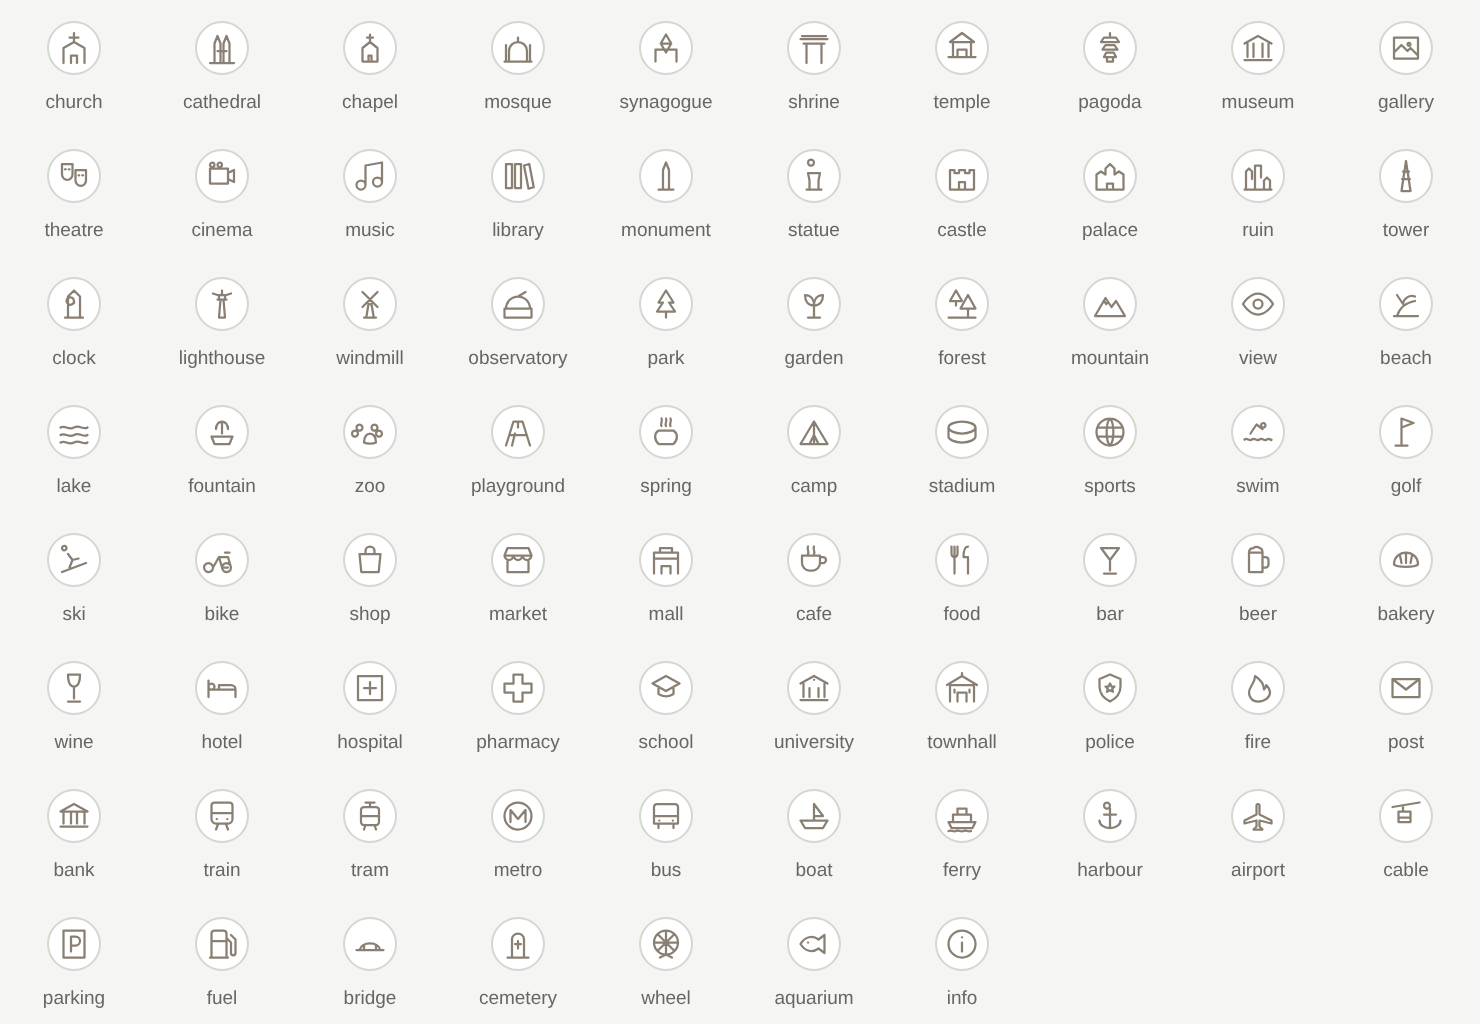
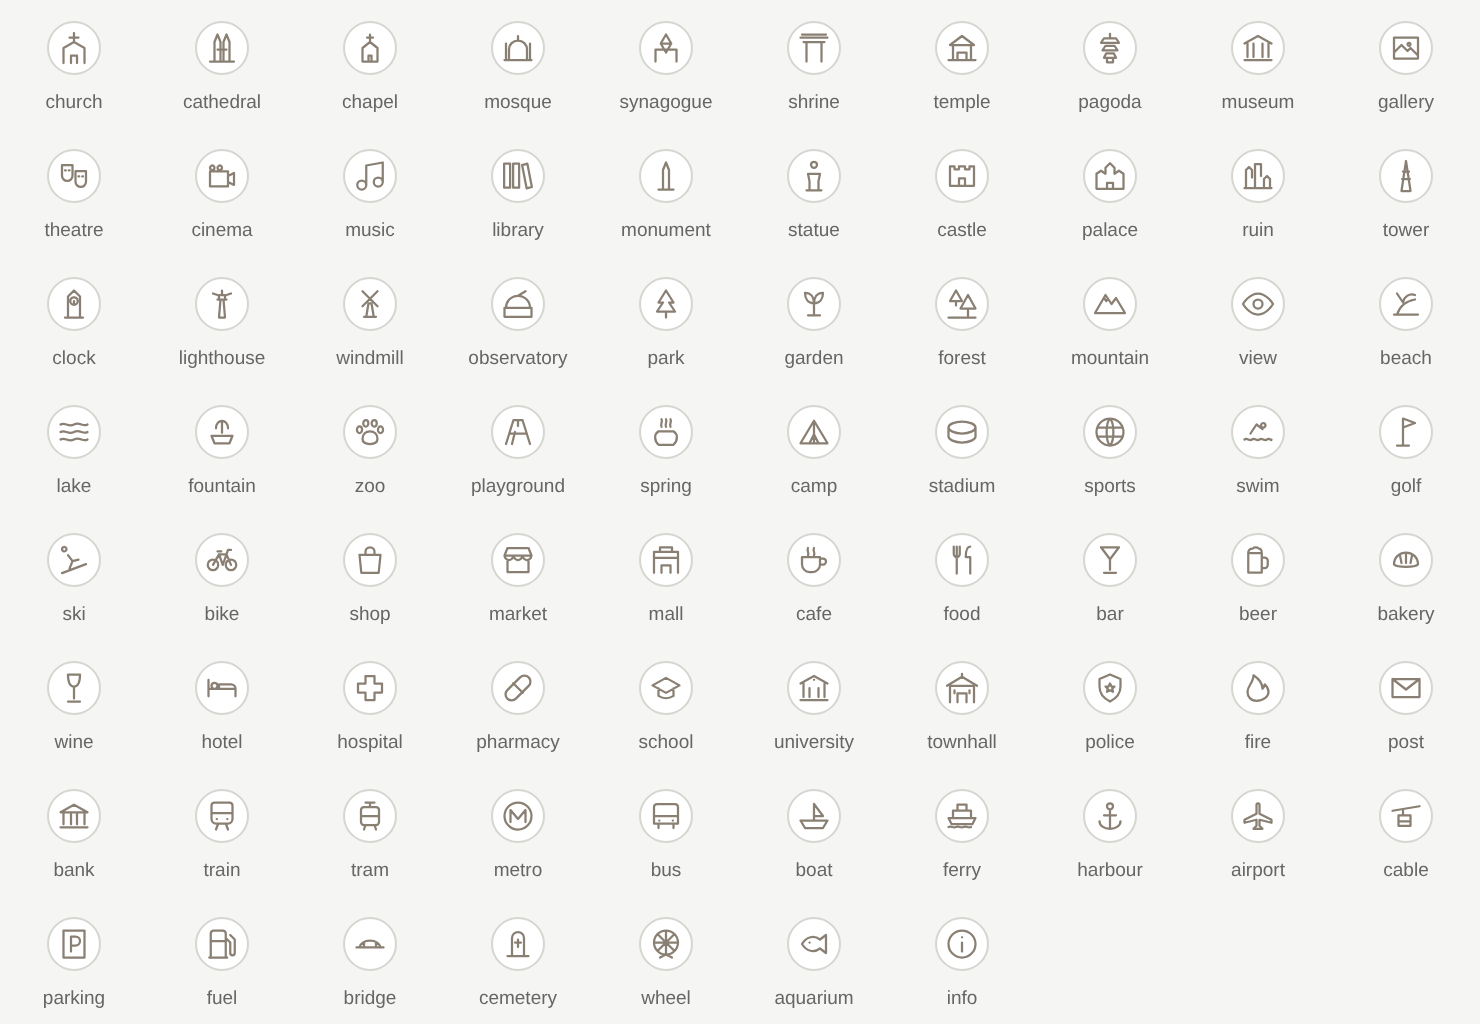
지도 아이콘: 실제 모양 상자를 재서 가운데 맞춤(iconbox.cjs), 동물원 · 자전거 · 병원 · 약국 다시
Claude-Session: https://claude.ai/code/session_01TBUyc4nvbfrUF2uL1hRtAL

diff --git a/docs/mockups/phone-map/osm/icons.js b/docs/mockups/phone-map/osm/icons.js
@@ -18,12 +18,12 @@ const ICON = {
   music: 'M9 18V5l11-2v13M9 18a3 3 0 1 1-3-3 3 3 0 0 1 3 3zM20 16a3 3 0 1 1-3-3 3 3 0 0 1 3 3z',
   library: 'M4 4h4v16H4zM10 4h4v16h-4zM16 5l3.5-1 3 15.5-3.5.9z',
   monument: 'M10 21V8l2-5 2 5v13M7 21h10',
-  statue: 'M12 3a2 2 0 1 0 0 .1M9 21v-6l-1-5h8l-1 5v6M7 21h10',
+  statue: 'M10 4a2 2 0 1 0 4 0a2 2 0 1 0 -4 0M9 21v-6l-1-5h8l-1 5v6M7 21h10',
   castle: 'M4 21V8h3v2h3V8h4v2h3V8h3v13zM10 21v-5h4v5',
   palace: 'M3 21V11l3-2 3 2V7l3-3 3 3v4l3-2 3 2v10zM10 21v-4h4v4',
   ruin: 'M4 21V9l2-2 2 2v5M10 21V5h4v8M16 21v-6l2-2 2 2v6M3 21h18',
   tower: 'M12 2l3 20H9zM10 9h4M9.4 14h5.2',
-  clock: 'M8 21V7l4-4 4 4v14zM12 10a2.5 2.5 0 1 0 0 .1M12 10v1.5M6 21h12',
+  clock: 'M8 21V7l4-4 4 4v14zM9.5 10a2.5 2.5 0 1 0 5 0a2.5 2.5 0 1 0 -5 0M12 10v1.5M6 21h12',
   lighthouse: 'M10 21l1-12h2l1 12zM9 9h6M10 9V6h4v3M12 6V3M6 5l3 1M18 5l-3 1',
   windmill: 'M12 9l-5-5M12 9l5-5M12 9l-5 5M12 9l5 5M9.5 21l1.5-9h2l1.5 9zM8 21h8',
   observatory: 'M4 15a8 8 0 0 1 16 0zM12 7l5-3M3 15h18v6H3z',
@@ -36,7 +36,7 @@ const ICON = {
   beach: 'M4 20h16M6 20c2-6 6-9 12-10M10 12l-4-6M10 12a6 6 0 0 1 8-5',
   lake: 'M3 9c3-2 5 2 9 0s6 2 9 0M3 14c3-2 5 2 9 0s6 2 9 0M3 19c3-2 5 2 9 0s6 2 9 0',
   fountain: 'M12 13V5M12 5c-2 0-4 2-4 5M12 5c2 0 4 2 4 5M5 15h14l-2 5H7z',
-  zoo: 'M7 9a2 2 0 1 0 0 .1M17 9a2 2 0 1 0 0 .1M4 13a2 2 0 1 0 0 .1M20 13a2 2 0 1 0 0 .1M8 19c0-4 2-6 4-6s4 2 4 6c-2 1-6 1-8 0z',
+  zoo: 'M7 16.5c0-3 2.2-5 5-5s5 2 5 5c0 2.3-2 3.5-5 3.5s-5-1.2-5-3.5zM3.3 10.5a1.7 2.2 0 1 0 3.4 0a1.7 2.2 0 1 0 -3.4 0M7.5 6.2a1.7 2.2 0 1 0 3.4 0a1.7 2.2 0 1 0 -3.4 0M13.1 6.2a1.7 2.2 0 1 0 3.4 0a1.7 2.2 0 1 0 -3.4 0M17.3 10.5a1.7 2.2 0 1 0 3.4 0a1.7 2.2 0 1 0 -3.4 0',
   playground: 'M4 21L9 5h6l5 16M7 14h10M12 5v4M10 13l-2 8',
   spring: 'M7 20c-3-3-3-7 0-9h10c3 2 3 6 0 9zM9 8c-1-2 1-3 0-5M12 8c-1-2 1-3 0-5M15 8c-1-2 1-3 0-5',
   camp: 'M3 20l9-15 9 15zM12 5v15M9 20l3-6 3 6',
@@ -46,7 +46,7 @@ const ICON = {
   swim: 'M3 17c2-1.5 3 1.5 5 0s3 1.5 5 0 3 1.5 5 0 3 1.5 3 0M7 13l4-6 4 3M17 7.5a1.5 1.5 0 1 0 0 .1',
   golf: 'M9 21V3l8 3-8 3M5 21h8',
   ski: 'M4 20l16-6M7 4a1.5 1.5 0 1 0 0 .1M8 8l3 4 4-1M11 12l-2 5',
-  bike: 'M6 17a3 3 0 1 0 0 .1M18 17a3 3 0 1 0 0 .1M6 17l4-7h6l2 7M10 10l2 7h4M14 7h3',
+  bike: 'M2.5 16a3.5 3.5 0 1 0 7 0a3.5 3.5 0 1 0 -7 0M14.5 16a3.5 3.5 0 1 0 7 0a3.5 3.5 0 1 0 -7 0M6 16l4-7h5l3 7M10 9l2.5 7M15 9l-2.5 7M9 7h2.5M15 9l1-3h2',
   // 먹고 사기
   shop: 'M5 8h14l-1.2 12H6.2zM9 8V6a3 3 0 0 1 6 0v2',
   market: 'M3 9l2-5h14l2 5zM3 9c0 2 2 3 3 3s3-1 3-3c0 2 2 3 3 3s3-1 3-3c0 2 2 3 3 3s3-1 3-3M5 12v8h14v-8',
@@ -58,9 +58,9 @@ const ICON = {
   bakery: 'M4 15c0-5 4-8 8-8s8 3 8 8c-2 2-14 2-16 0zM8 9l1 5M12 8v6M16 9l-1 5',
   wine: 'M8 3h8c0 5-1 8-4 8s-4-3-4-8zM12 11v8M8 21h8',
   // 머무르기 · 생활
-  hotel: 'M3 18V7M3 13h18v5M21 18v-3M7 11a2 2 0 1 0 0 .1M10 13V10h8a3 3 0 0 1 3 3',
-  hospital: 'M4 4h16v16H4zM12 8v8M8 12h8',
-  pharmacy: 'M9 3h6v6h6v6h-6v6H9v-6H3V9h6z',
+  hotel: 'M3 18V7M3 13h18v5M21 18v-3M5 11a2 2 0 1 0 4 0a2 2 0 1 0 -4 0M10 13V10h8a3 3 0 0 1 3 3',
+  hospital: 'M9 4h6v5h5v6h-5v5H9v-5H4V9h5z',
+  pharmacy: 'M4.9 19.1a4 4 0 0 1 0-5.7l8.5-8.5a4 4 0 0 1 5.7 5.7l-8.5 8.5a4 4 0 0 1-5.7 0zM8.8 8.8l6.4 6.4',
   school: 'M3 9l9-5 9 5-9 5zM7 11v5c3 2 7 2 10 0v-5',
   university: 'M3 9l9-5 9 5M5 9v9M19 9v9M9 12v6M15 12v6M3 20h18M12 6.5h.1',
   townhall: 'M4 21V10h16v11M2 10l10-6 10 6M12 4V2M9 21v-6h6v6M7 13v2M17 13v2',
@@ -75,7 +75,7 @@ const ICON = {
   bus: 'M6 4h12a2 2 0 0 1 2 2v11H4V6a2 2 0 0 1 2-2zM4 12h16M7 20v-3M17 20v-3M7.5 15h.1M16.5 15h.1',
   boat: 'M3 15h18l-3 5H6zM12 4v11M12 4l6 8h-6',
   ferry: 'M3 16l2 4h14l2-4zM6 16V11h12v5M9 11V7h6v4M3 22c2-1 3 1 5 0s3 1 5 0 3 1 5 0',
-  harbour: 'M12 5a2 2 0 1 0 0 .1M12 7v13M8 11h8M5 15c0 3 3 5 7 5s7-2 7-5',
+  harbour: 'M10 5a2 2 0 1 0 4 0a2 2 0 1 0 -4 0M12 7v13M8 11h8M5 15c0 3 3 5 7 5s7-2 7-5',
   airport: 'M21 15l-8-4V5a1 1 0 0 0-2 0v6l-8 4v2l8-2v4l-2 2h6l-2-2v-4l8 2z',
   cable: 'M3 6l18-3M10 5v4M7 9h8v7H7zM7 13h8',
   parking: 'M5 3h14v18H5zM10 17V7h3a3 3 0 0 1 0 6h-3',
@@ -132,4 +132,7 @@ function pick(t) {
   if (to === 'attraction' || to === 'information' && t.information === 'office') return to === 'attraction' ? 'view' : 'info';
   return null;
 }
-module.exports = { ICON, pick };
+// OFF: how far each glyph moves so its real box sits in the middle of the 24 grid (iconbox.cjs measures it)
+const OFF = {"cathedral":[0,-1],"mosque":[0,-1],"shrine":[0,-1],"temple":[0,2],"pagoda":[0,0.5],"theatre":[0,0.75],"cinema":[0,1.97],"music":[0.5,0],"library":[-1.25,-0.2],"statue":[0,0.5],"castle":[0,-2.5],"palace":[0,-0.5],"ruin":[0,-1],"windmill":[0,-0.5],"observatory":[0,-0.5],"garden":[0,-1.5],"mountain":[0,-2],"beach":[0,-1],"lake":[0,-2],"fountain":[0,-0.5],"playground":[0,-1],"spring":[0,0.5],"camp":[0,-0.5],"golf":[1,0],"ski":[0,0.72],"bike":[0,-0.75],"shop":[0,0.5],"mall":[0,-0.5],"cafe":[0,1],"food":[1.5,0],"bar":[0,-0.5],"beer":[-0.5,0.38],"hotel":[0,-0.5],"school":[0,1.25],"townhall":[0,0.5],"fire":[-1,-0.5],"bank":[0,0.5],"ferry":[0,-2.64],"harbour":[0,0.5],"airport":[0,-0.5],"cable":[0,2.5],"fuel":[-0.5,0],"bridge":[0,-1.75],"cemetery":[0,-1],"aquarium":[1,0]};
+const glyph = n => OFF[n] ? `<g transform="translate(${OFF[n][0]} ${OFF[n][1]})"><path d="${ICON[n]}"/></g>` : `<path d="${ICON[n]}"/>`;
+module.exports = { ICON, OFF, glyph, pick };

diff --git a/docs/mockups/phone-map/osm/osmmap.js b/docs/mockups/phone-map/osm/osmmap.js
@@ -95,7 +95,7 @@ const RAILKEEP = new Set();
 const LC = Object.fromEntries(Object.keys(COVER).map(k => [k, '']));
 // STYLE=pretty: the real shapes drawn the way the old kit maps were — fewer lines, big charcoal names, icons, a station box, trees in parks
 const PRETTY = process.env.STYLE === 'pretty';
-const { ICON, pick } = require('./icons.js');
+const { ICON, glyph, pick } = require('./icons.js');
 const pxArea = ps => Math.abs(ps.reduce((s, p, i) => { const q = ps[(i + 1) % ps.length]; return s + p[0] * q[1] - q[0] * p[1]; }, 0)) / 2;
 const centre = ps => { const n = ps.length; return [ps.reduce((s, p) => s + p[0], 0) / n, ps.reduce((s, p) => s + p[1], 0) / n]; };
 const POIS = [], GREENS = [];
@@ -241,13 +241,13 @@ function prettyMarks(labels) {
   const free = (x, y, r) => x > 14 && x < W - 14 && y > 16 && y < 480 && !taken.some(b => x + r > b[0] && x - r < b[2] && y + r > b[1] && y - r < b[3]);
   const st = d.elements.find(e => e.type === 'node' && e.tags && e.tags.railway === 'station' && e.tags.station !== 'subway' && (() => { const [x, y] = P(e.lat, e.lon); return x > 20 && x < W - 20 && y > 30 && y < 470; })());
   if (st) { let [x, y] = P(st.lat, st.lon); y -= 22; if (free(x, y, 9)) { taken.push([x - 12, y - 12, x + 12, y + 12]);
-    o += `<g transform="translate(${f(x)} ${f(y)})"><rect x="-9" y="-9" width="18" height="18" rx="5" fill="#5f6670"/><path d="${ICON.train}" fill="none" stroke="#fff" stroke-width="1.8" stroke-linecap="round" stroke-linejoin="round" transform="translate(-6 -6) scale(.5)"/></g>`; } }
+    o += `<g transform="translate(${f(x)} ${f(y)})"><rect x="-9" y="-9" width="18" height="18" rx="5" fill="#5f6670"/><g fill="none" stroke="#fff" stroke-width="1.8" stroke-linecap="round" stroke-linejoin="round" transform="translate(-6 -6) scale(.5)">${glyph('train')}</g></g>`; } }
   const used = new Map(), pool = POIS.filter(p => p.ic !== 'train').sort((a, b) => b.pr - a.pr);
   let n = 0;
   for (const p of pool) { const [x, y] = p.at; if (!free(x, y, 11) || (used.get(p.ic) || 0) >= 2) continue;
     if (taken.some(b => Math.hypot((b[0] + b[2]) / 2 - x, (b[1] + b[3]) / 2 - y) < 46 && b[2] - b[0] < 30)) continue;
     taken.push([x - 11, y - 11, x + 11, y + 11]); used.set(p.ic, (used.get(p.ic) || 0) + 1);
-    o += `<g transform="translate(${f(x)} ${f(y)})"><circle r="9.5" fill="#fff" stroke="#d8d4cc" stroke-width="1"/><path d="${ICON[p.ic]}" fill="none" stroke="#8a7f73" stroke-width="1.5" stroke-linecap="round" stroke-linejoin="round" transform="translate(-6.6 -6.6) scale(.55)"/></g>`;
+    o += `<g transform="translate(${f(x)} ${f(y)})"><circle r="9.5" fill="#fff" stroke="#d8d4cc" stroke-width="1"/><g fill="none" stroke="#8a7f73" stroke-width="1.5" stroke-linecap="round" stroke-linejoin="round" transform="translate(-6.6 -6.6) scale(.55)">${glyph(p.ic)}</g></g>`;
     if (++n >= 7) break; }
   return o;
 }
